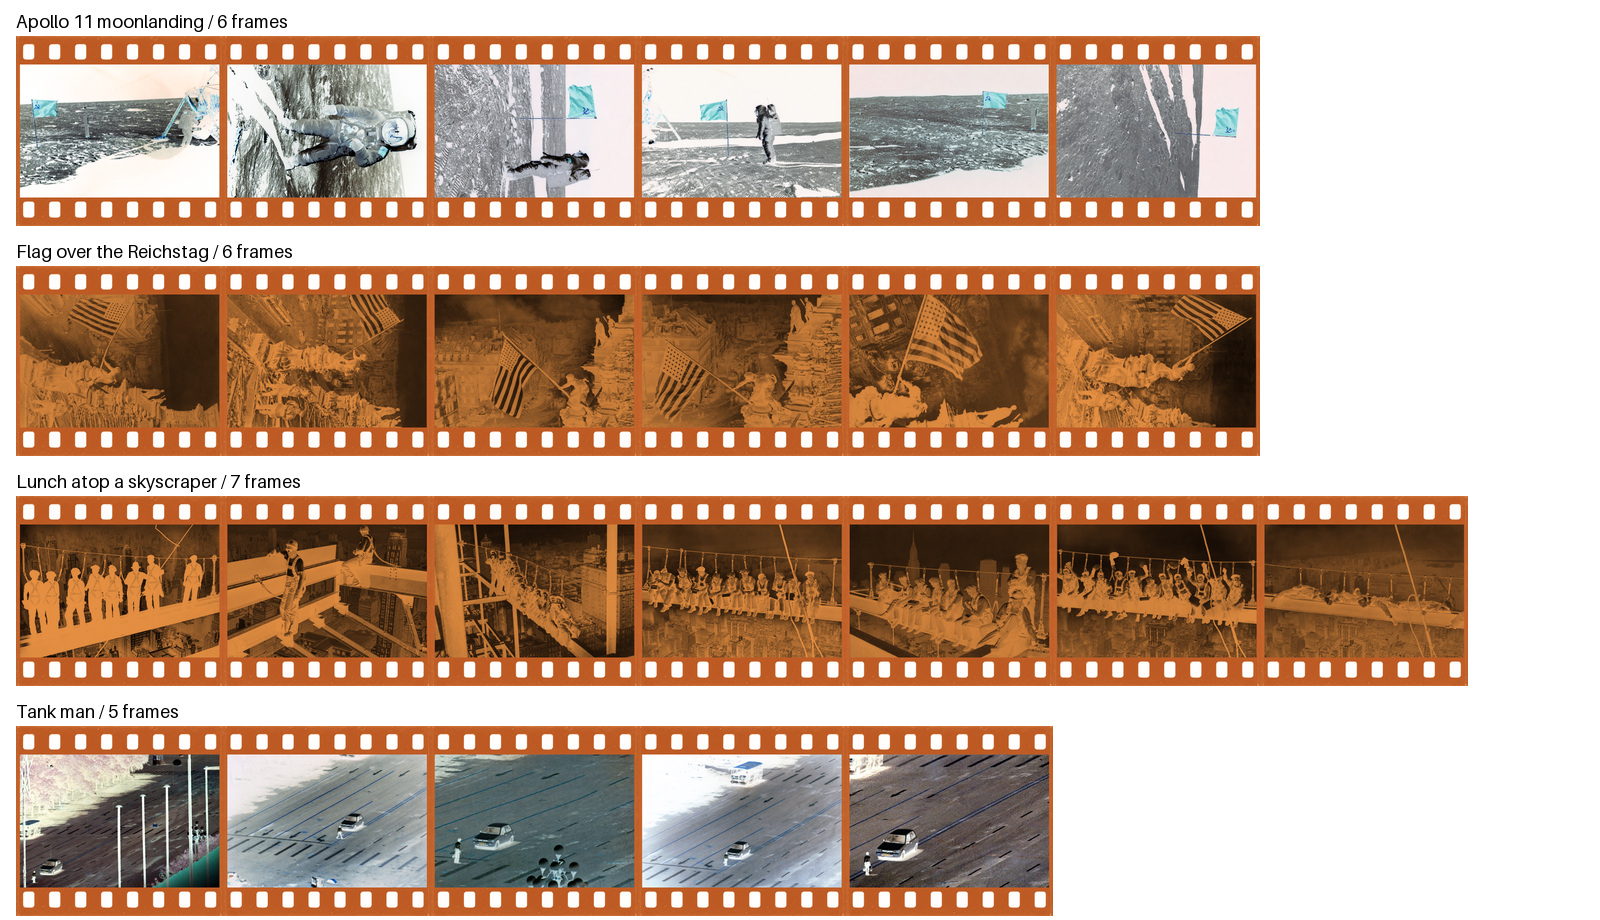
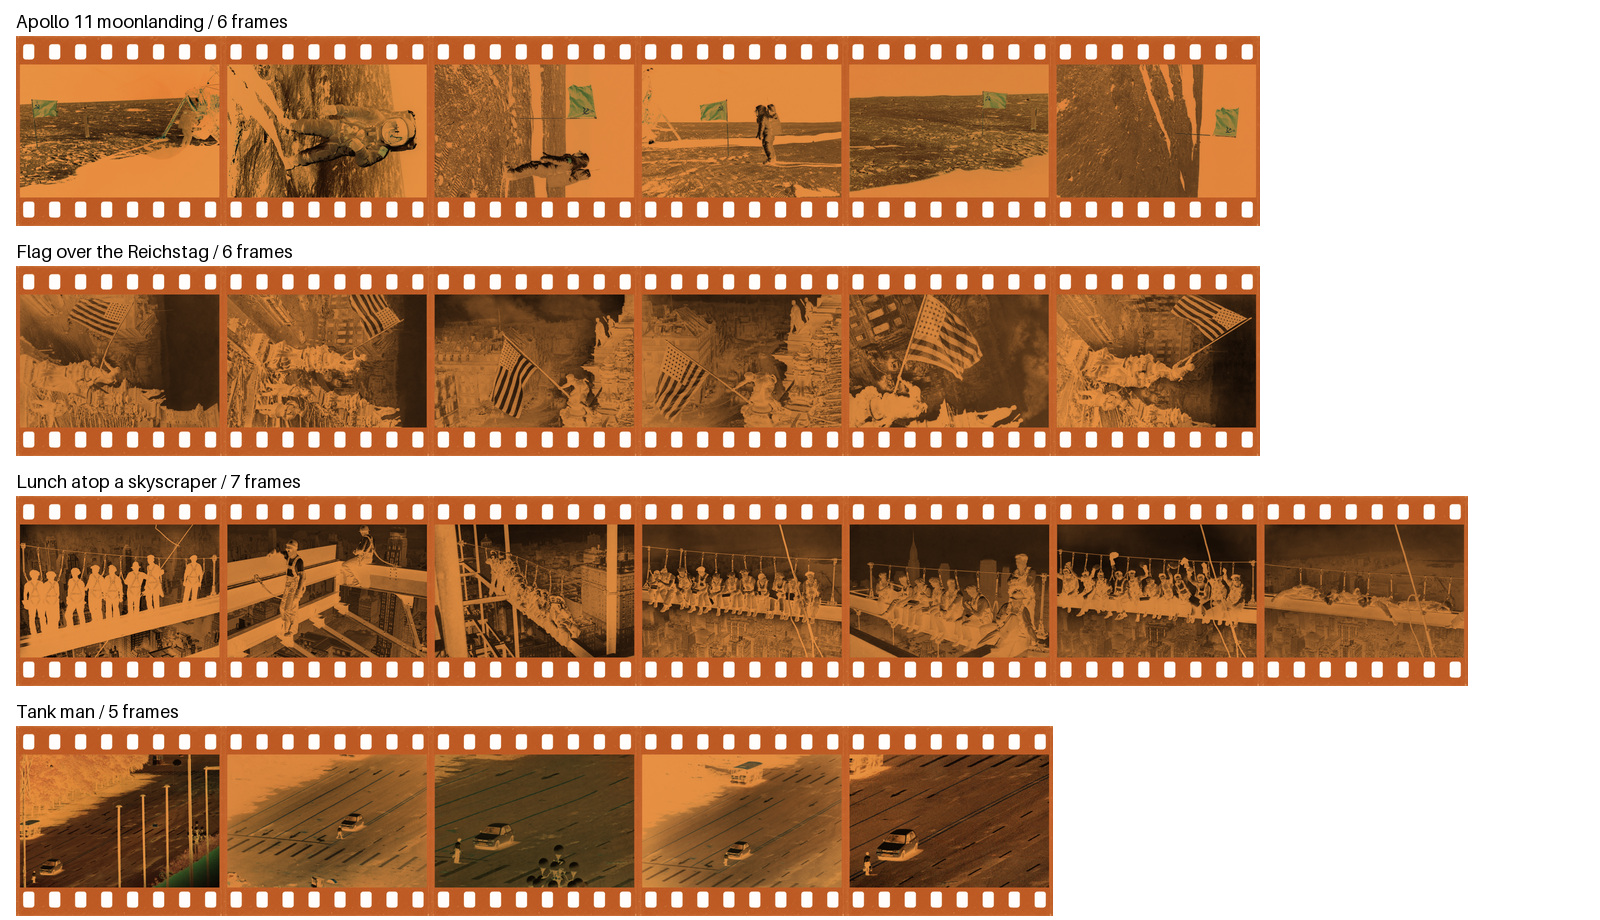
Apply orange film mask consistently to all negative frames

Changed region(s): [[0.0, 0.0609, 0.8125, 0.213], [0.0, 0.8217, 0.6562, 0.9739]]

diff --git a/projects/false-negative/index.html b/projects/false-negative/index.html
@@ -105,7 +105,7 @@
         <option value="monochrome">Black &amp; white 35mm</option>
       </select>
     </div>
-    <p class="film-note" id="film-note">Color-film simulation: inverted colors, with an orange base for the black-and-white photographs.</p>
+    <p class="film-note" id="film-note">Color-film simulation: all photographs inverted through an orange film mask.</p>
     <p class="scroll-hint" id="scroll-hint">Scroll sideways through each strip. Use the arrows, swipe, or focus a strip and use your arrow keys.</p>
 
     <section class="scene" aria-labelledby="apollo-title" data-frames="6">
@@ -185,7 +185,7 @@
       if (image.getAttribute('src') !== source) image.src = source;
     });
     document.getElementById('film-note').textContent = filmStock.value === 'color'
-      ? 'Color-film simulation: inverted colors, with an orange base for the black-and-white photographs.'
+      ? 'Color-film simulation: all photographs inverted through an orange film mask.'
       : 'Black-and-white film: all photographs converted to grayscale and inverted.';
   }
   filmStock.addEventListener('change', showFilmStock);

diff --git a/projects/false-negative/film/build_strips.py b/projects/false-negative/film/build_strips.py
@@ -1,8 +1,8 @@
 """Compose the existing definitive photographs onto a generated empty film canvas.
 
 Run from any directory with Python and Pillow: python path/to/build_strips.py
-Add --color to simulate color film: invert RGB photographs, and put grayscale
-negatives on an orange base. Only the original surround was generated; photos
+Add --color to simulate color film: invert photographs and apply the same
+orange mask to every frame. Only the original surround was generated; photos
 receive deterministic processing, with no crop, rotation or synthetic details.
 """
 
@@ -35,6 +35,16 @@ FRAME_ORIGIN = (25, 180)
 
 def digest(path):
     return hashlib.sha256(path.read_bytes()).hexdigest()
+
+
+def apply_orange_mask(negative):
+    """Map each inverted RGB channel through the same orange film-base model."""
+    lookup = [
+        shadow + (base - shadow) * value // 255
+        for shadow, base in zip(ORANGE_SHADOW, ORANGE_BASE)
+        for value in range(256)
+    ]
+    return negative.convert("RGB").point(lookup)
 
 
 def build(color=False):
@@ -77,8 +87,8 @@ def build(color=False):
                     negative = ImageOps.invert(photo.convert("RGB"))
                 else:
                     negative = ImageOps.invert(ImageOps.grayscale(photo))
-                    if color:
-                        negative = ImageOps.colorize(negative, black=ORANGE_SHADOW, white=ORANGE_BASE)
+                if color:
+                    negative = apply_orange_mask(negative)
                 negative = negative.resize(FRAME_SIZE, Image.Resampling.LANCZOS)
             x = index * TILE_SIZE[0]
             strip.paste(tile, (x, 0))
@@ -90,7 +100,7 @@ def build(color=False):
                 "box": [box[0], box[1], box[0] + FRAME_SIZE[0], box[1] + FRAME_SIZE[1]],
             })
             if color:
-                frames[-1]["treatment"] = "invert-rgb" if series in COLOR_SCENES else "invert-grayscale-orange-base"
+                frames[-1]["treatment"] = "invert-rgb-orange-base" if series in COLOR_SCENES else "invert-grayscale-orange-base"
             used.add(path.name)
         output = HERE / f"{slug}{'-color' if color else ''}.webp"
         strip.save(output, lossless=True, method=6)

diff --git a/projects/false-negative/film/README.md b/projects/false-negative/film/README.md
@@ -35,12 +35,14 @@ The page defaults to color 35mm, with a selector to compare the original
 black-and-white version. The four `*-color.webp` files retain the same frames,
 dimensions, order and orientation as the monochrome strips.
 
-Apollo 11 and Tank man contain color photographs: each RGB channel is inverted
-directly (`255 - channel`), then resized proportionally. Reichstag and Lunch
-contain monochrome photographs: inverted luminance is mapped from deep brown
-`(13, 7, 3)` to an orange film base `(232, 145, 67)`. These groups are explicitly
-selected in the script so subtle color casts in the monochrome sources do not
-change their treatment.
+Every frame receives the same orange film-mask simulation. Apollo 11 and Tank
+man retain their color: each RGB channel is inverted (`255 - channel`) and
+mapped through its corresponding orange-mask channel. Reichstag and Lunch
+use inverted grayscale luminance with the same mask. The channel mappings run
+from deep brown `(13, 7, 3)` to the orange base `(232, 145, 67)`, followed by
+proportional resizing. This keeps complementary color differences in the color
+originals and orange-brown density in the monochrome originals. It is a visual
+approximation rather than a calibrated model of a particular film stock.
 
 `35mm-empty-color.png` is a deterministic orange tint of the existing generated
 surround, keeping the sprocket holes white. No new imagery is generated.
